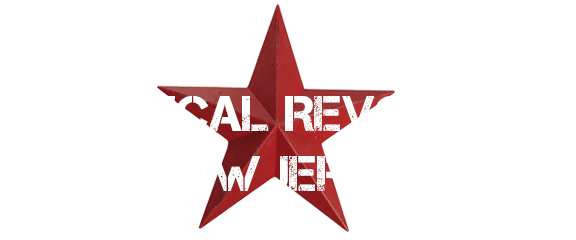
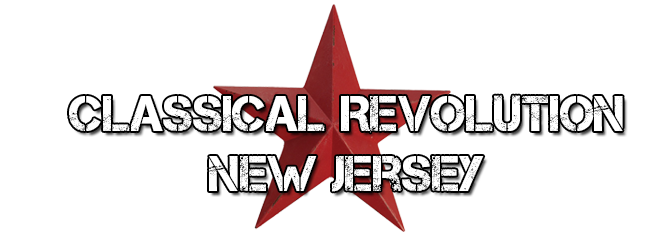
fixed header and stuff

Changed region(s): [[0.0938, 0.0292, 0.9688, 0.9625]]

diff --git a/index.html b/index.html
@@ -1,0 +1,167 @@
+<!DOCTYPE html>
+<html lang="en">
+<head>
+  <meta http-equiv="Content-Type" content="text/html; charset=UTF-8"/>
+  <meta name="viewport" content="width=device-width, initial-scale=1, maximum-scale=1.0, user-scalable=no"/>
+  <title>Parallax Template - Materialize</title>
+
+  <!-- CSS  -->
+  <link href="https://fonts.googleapis.com/icon?family=Material+Icons" rel="stylesheet">
+  <link href="css/materialize.css" type="text/css" rel="stylesheet" media="screen,projection"/>
+  <link href="css/style.css" type="text/css" rel="stylesheet" media="screen,projection"/>
+</head>
+<body>
+  <nav class="white" role="navigation">
+    <div class="nav-wrapper container">
+      <!-- <a id="logo-container" href="#" class="brand-logo">Classical Revolution New Jersey</a>
+      <ul class="right hide-on-med-and-down">
+        <li><a href="#">Navbar Link</a></li>
+      </ul> -->
+
+
+
+      <!-- <ul id="nav-mobile" class="side-nav">
+        <li><a href="#">Navbar Link</a></li>
+      </ul>
+      <a href="#" data-activates="nav-mobile" class="button-collapse"><i class="material-icons">menu</i></a> -->
+    </div>
+  </nav>
+
+  <div id="index-banner" class="parallax-container">
+    <div class="section no-pad-bot">
+      <div class="container">
+        <br><br>
+
+        <div class="row center">
+          <img id="center-logo" src="./img/crheader.png"  alt="Classical Revolution New Jersey" />
+
+        </div>
+        <div class="row center">
+          <a href="#" id="download-button" class="btn-large waves-effect waves-light teal lighten-1">Button</a>
+        </div>
+        <br><br>
+
+      </div>
+    </div>
+    <div class="parallax"><img src="./img/score.png" alt="Unsplashed background img 1"></div>
+  </div>
+
+
+  <div class="container">
+    <div class="section">
+
+      <!--   Icon Section   -->
+      <div class="row">
+        <div class="col s12 m4">
+          <div class="icon-block">
+            <h2 class="center brown-text"><i class="material-icons">flash_on</i></h2>
+            <h5 class="center">Speeds up development</h5>
+
+            <p class="light">We did most of the heavy lifting for you to provide a default stylings that incorporate our custom components. Additionally, we refined animations and transitions to provide a smoother experience for developers.</p>
+          </div>
+        </div>
+
+        <div class="col s12 m4">
+          <div class="icon-block">
+            <h2 class="center brown-text"><i class="material-icons">group</i></h2>
+            <h5 class="center">User Experience Focused</h5>
+
+            <p class="light">By utilizing elements and principles of Material Design, we were able to create a framework that incorporates components and animations that provide more feedback to users. Additionally, a single underlying responsive system across all platforms allow for a more unified user experience.</p>
+          </div>
+        </div>
+
+        <div class="col s12 m4">
+          <div class="icon-block">
+            <h2 class="center brown-text"><i class="material-icons">settings</i></h2>
+            <h5 class="center">Easy to work with</h5>
+
+            <p class="light">We have provided detailed documentation as well as specific code examples to help new users get started. We are also always open to feedback and can answer any questions a user may have about Materialize.</p>
+          </div>
+        </div>
+      </div>
+
+    </div>
+  </div>
+
+
+  <div class="parallax-container valign-wrapper">
+    <div class="section no-pad-bot">
+      <div class="container">
+        <div class="row center">
+          <h5 class="header col s12 light">A modern responsive front-end framework based on Material Design</h5>
+        </div>
+      </div>
+    </div>
+    <div class="parallax"><img src="background2.jpg" alt="Unsplashed background img 2"></div>
+  </div>
+
+  <div class="container">
+    <div class="section">
+
+      <div class="row">
+        <div class="col s12 center">
+          <h3><i class="mdi-content-send brown-text"></i></h3>
+          <h4>Contact Us</h4>
+          <p class="left-align light">Lorem ipsum dolor sit amet, consectetur adipiscing elit. Nullam scelerisque id nunc nec volutpat. Etiam pellentesque tristique arcu, non consequat magna fermentum ac. Cras ut ultricies eros. Maecenas eros justo, ullamcorper a sapien id, viverra ultrices eros. Morbi sem neque, posuere et pretium eget, bibendum sollicitudin lacus. Aliquam eleifend sollicitudin diam, eu mattis nisl maximus sed. Nulla imperdiet semper molestie. Morbi massa odio, condimentum sed ipsum ac, gravida ultrices erat. Nullam eget dignissim mauris, non tristique erat. Vestibulum ante ipsum primis in faucibus orci luctus et ultrices posuere cubilia Curae;</p>
+        </div>
+      </div>
+
+    </div>
+  </div>
+
+
+  <div class="parallax-container valign-wrapper">
+    <div class="section no-pad-bot">
+      <div class="container">
+        <div class="row center">
+          <h5 class="header col s12 light">A modern responsive front-end framework based on Material Design</h5>
+        </div>
+      </div>
+    </div>
+    <div class="parallax"><img src="background3.jpg" alt="Unsplashed background img 3"></div>
+  </div>
+
+  <footer class="page-footer teal">
+    <div class="container">
+      <div class="row">
+        <div class="col l6 s12">
+          <h5 class="white-text">Company Bio</h5>
+          <p class="grey-text text-lighten-4">We are a team of college students working on this project like it's our full time job. Any amount would help support and continue development on this project and is greatly appreciated.</p>
+
+
+        </div>
+        <div class="col l3 s12">
+          <h5 class="white-text">Settings</h5>
+          <ul>
+            <li><a class="white-text" href="#!">Link 1</a></li>
+            <li><a class="white-text" href="#!">Link 2</a></li>
+            <li><a class="white-text" href="#!">Link 3</a></li>
+            <li><a class="white-text" href="#!">Link 4</a></li>
+          </ul>
+        </div>
+        <div class="col l3 s12">
+          <h5 class="white-text">Connect</h5>
+          <ul>
+            <li><a class="white-text" href="#!">Link 1</a></li>
+            <li><a class="white-text" href="#!">Link 2</a></li>
+            <li><a class="white-text" href="#!">Link 3</a></li>
+            <li><a class="white-text" href="#!">Link 4</a></li>
+          </ul>
+        </div>
+      </div>
+    </div>
+    <div class="footer-copyright">
+      <div class="container">
+      Made by <a class="brown-text text-lighten-3" href="http://materializecss.com">Materialize</a>
+      </div>
+    </div>
+  </footer>
+
+
+  <!--  Scripts-->
+  <script src="https://code.jquery.com/jquery-2.1.1.min.js"></script>
+  <script src="js/materialize.js"></script>
+  <script src="js/init.js"></script>
+
+  </body>
+</html>
